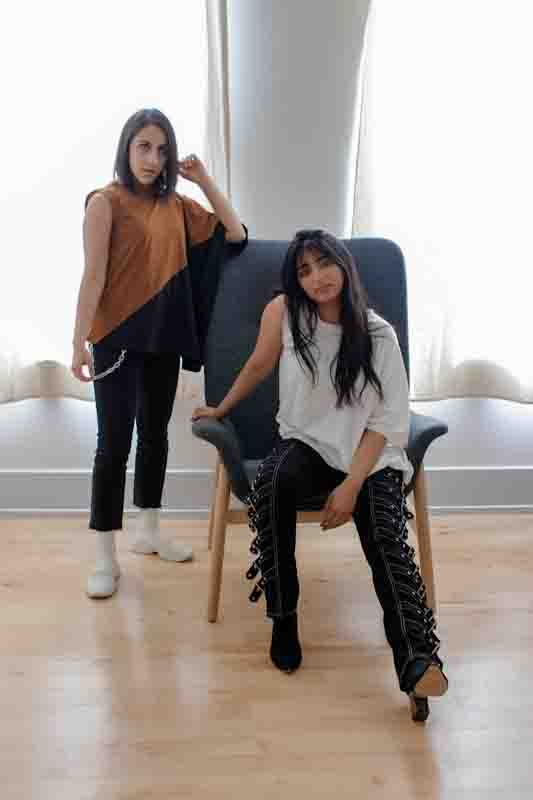
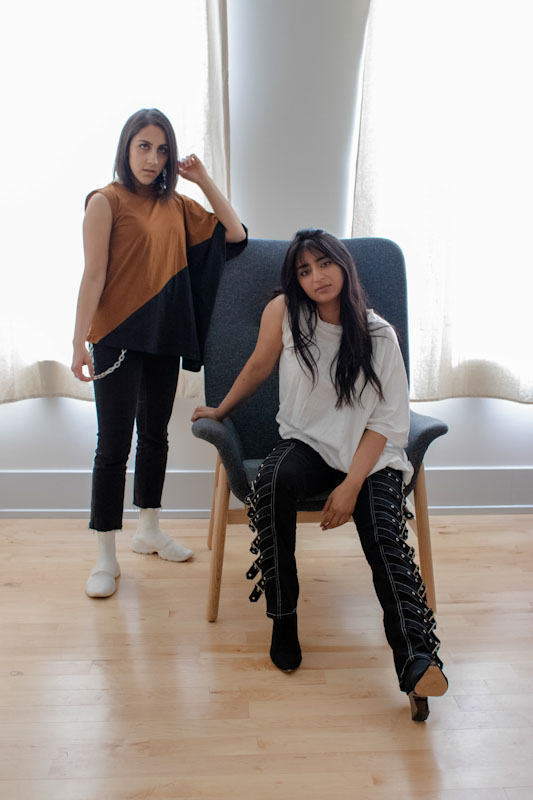
high res images and safari layout css

diff --git a/www/components/background.js b/www/components/background.js
@@ -71,6 +71,14 @@ export default ({}) => {
               @supports not (display: grid) {
                  // Safari/IE style
                  .container {
+                   display: flex;
+                   flex-direction: row;
+                   flex-flow: row wrap;
+                 }
+                 
+                 img {
+                  width: 50%;
+                  height: 50%;
                  }
               }
             }
